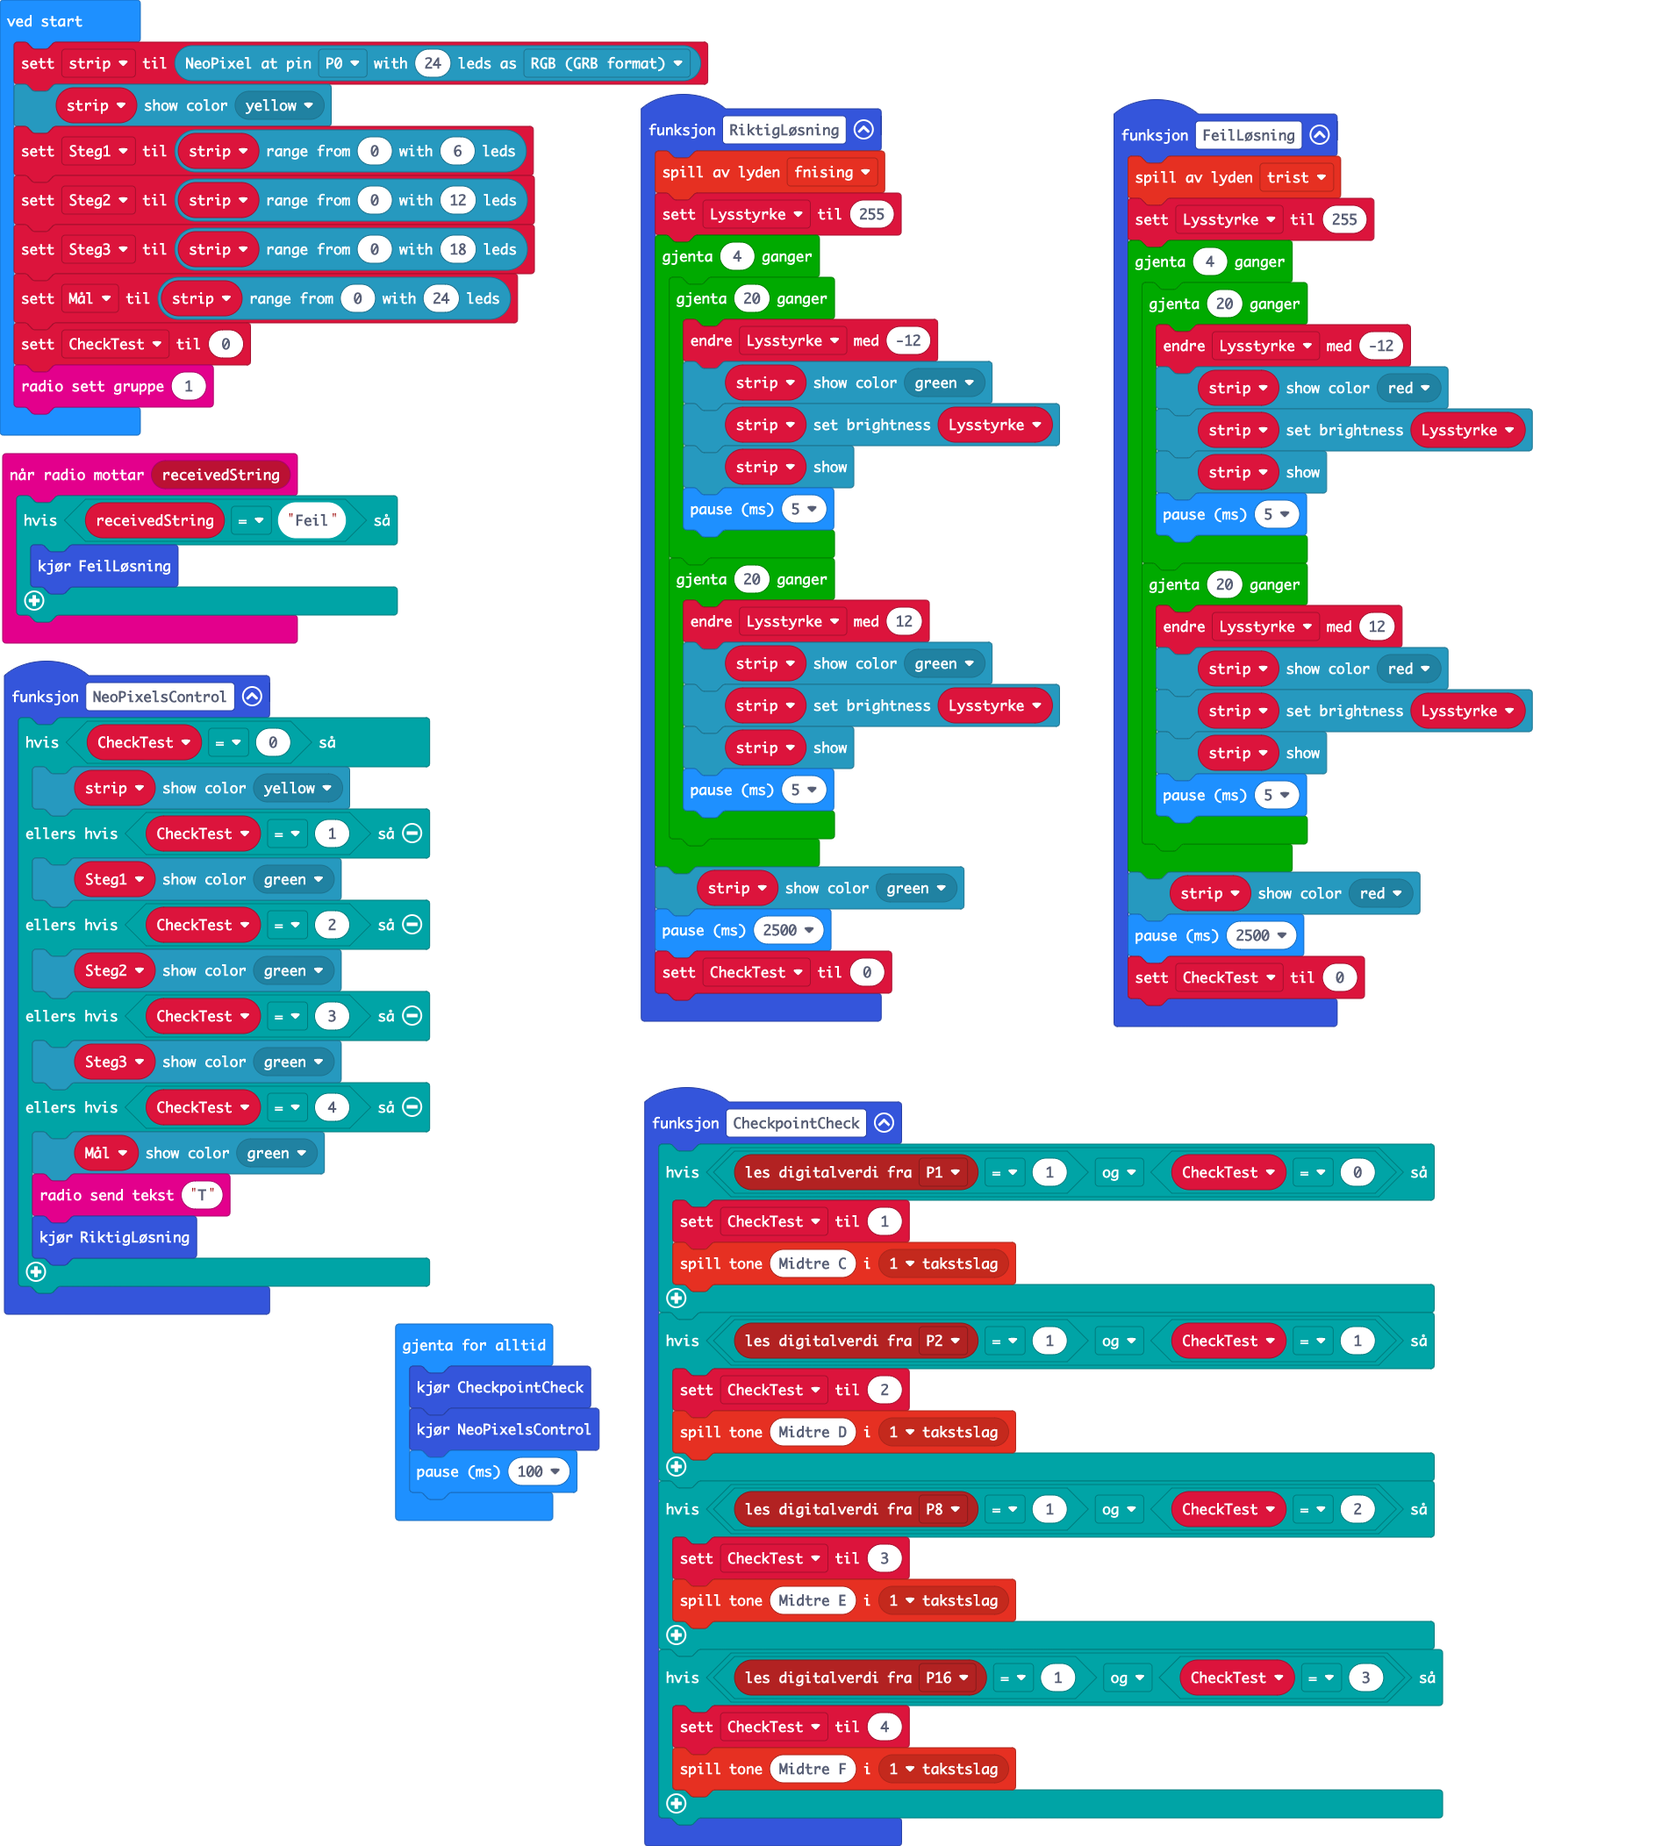
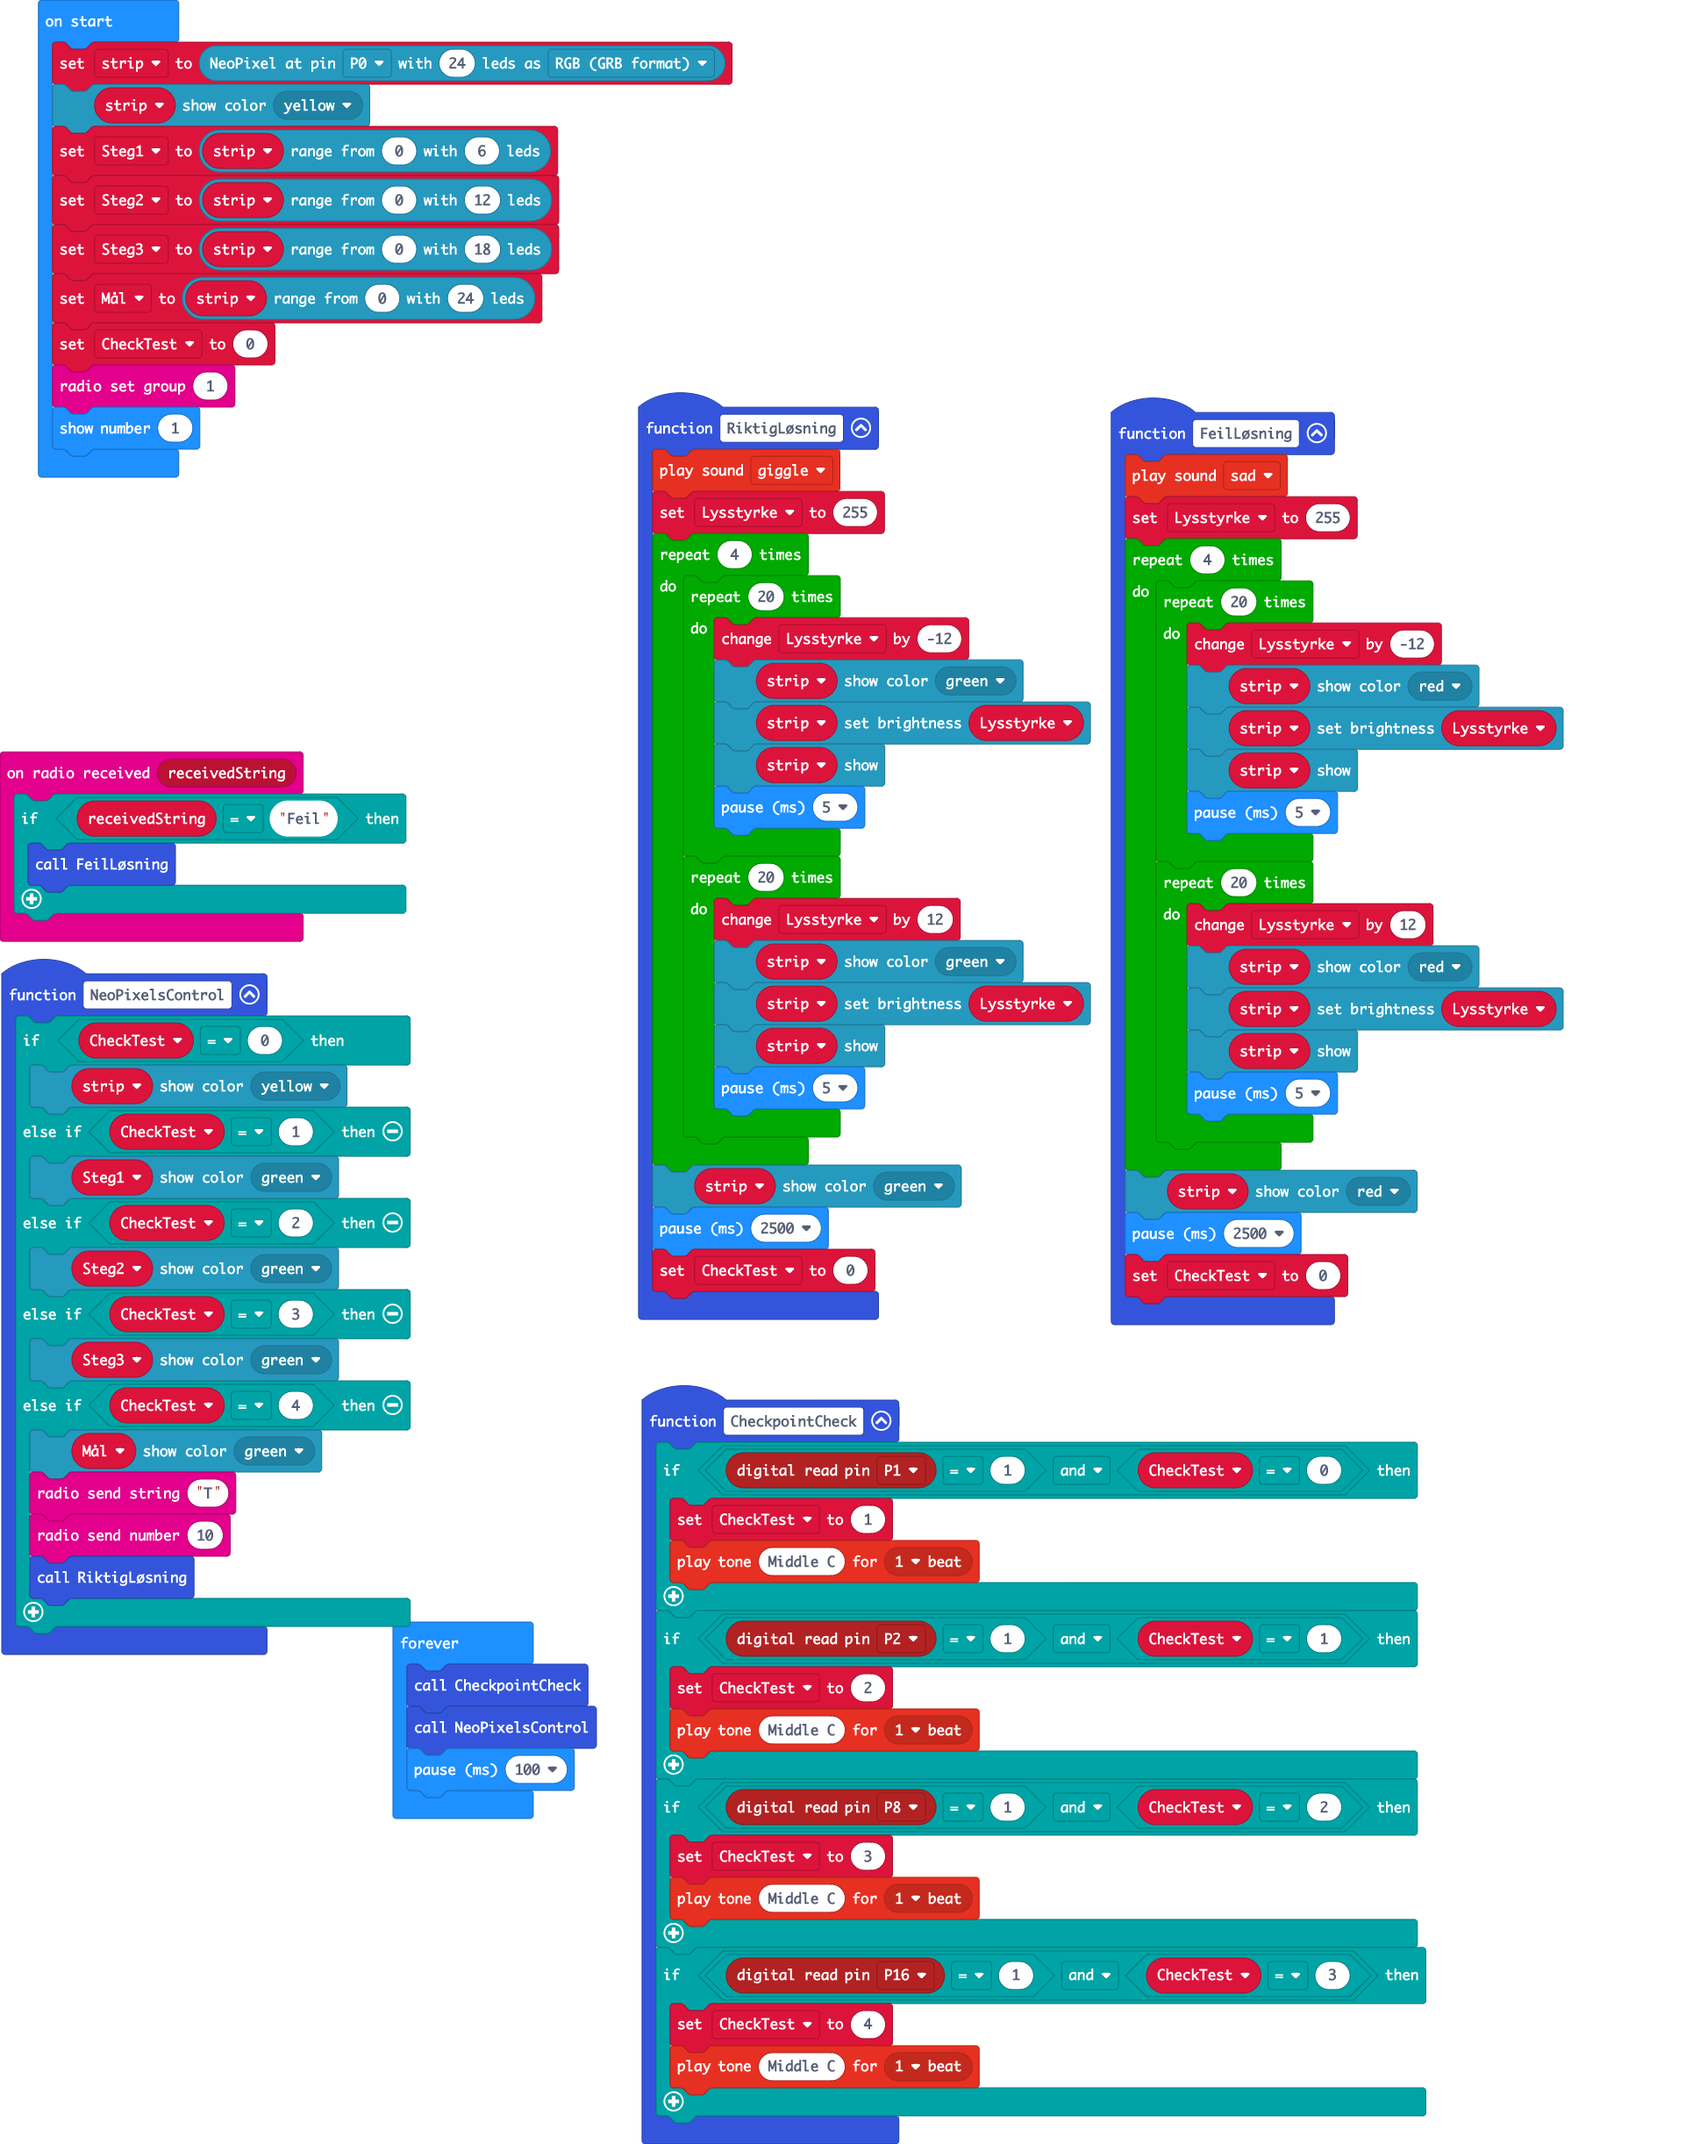
Update pxt.json, main.blocks, main.ts

diff --git a/main.ts b/main.ts
@@ -61,6 +61,7 @@ function NeoPixelsControl () {
     } else if (CheckTest == 4) {
         Mål.showColor(neopixel.colors(NeoPixelColors.Green))
         radio.sendString("T")
+        radio.sendNumber(10)
         RiktigLøsning()
     }
 }
@@ -71,15 +72,15 @@ function CheckpointCheck () {
     }
     if (pins.digitalReadPin(DigitalPin.P2) == 1 && CheckTest == 1) {
         CheckTest = 2
-        music.playTone(294, music.beat(BeatFraction.Whole))
+        music.playTone(262, music.beat(BeatFraction.Whole))
     }
     if (pins.digitalReadPin(DigitalPin.P8) == 1 && CheckTest == 2) {
         CheckTest = 3
-        music.playTone(330, music.beat(BeatFraction.Whole))
+        music.playTone(262, music.beat(BeatFraction.Whole))
     }
     if (pins.digitalReadPin(DigitalPin.P16) == 1 && CheckTest == 3) {
         CheckTest = 4
-        music.playTone(349, music.beat(BeatFraction.Whole))
+        music.playTone(262, music.beat(BeatFraction.Whole))
     }
 }
 let Lysstyrke = 0
@@ -97,6 +98,7 @@ Steg3 = strip.range(0, 18)
 Mål = strip.range(0, 24)
 CheckTest = 0
 radio.setGroup(1)
+basic.showNumber(1)
 basic.forever(function () {
     CheckpointCheck()
     NeoPixelsControl()
